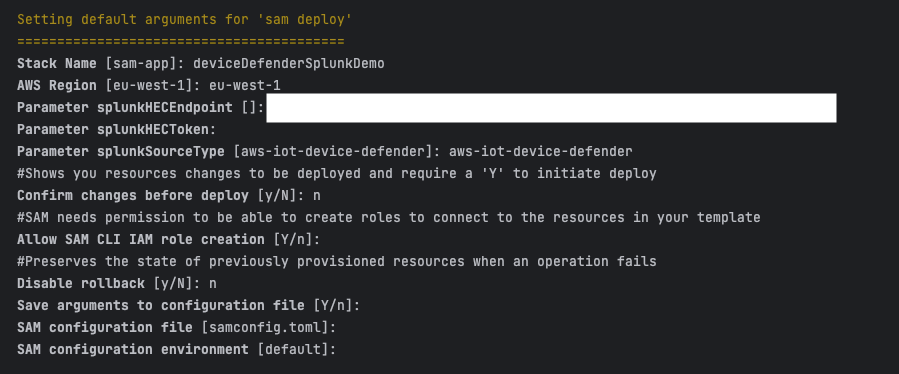
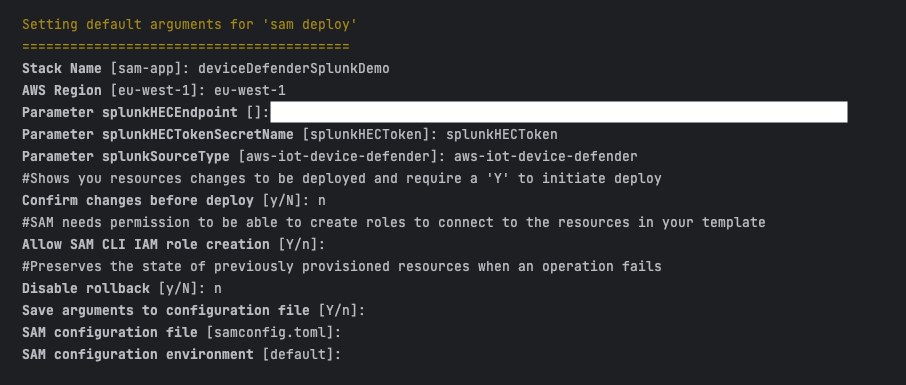
README update with Secret Manager steps.

Changed region(s): [[0.0, 0.0294, 0.9344, 0.9706]]

diff --git a/README.md b/README.md
@@ -85,6 +85,28 @@ Depending on your Splunk deployment, the assigned HEC URLs will vary. For most S
 
 You now have the HEC URL and Token Value which are required at the time of the AWS SAM template deployment.
 
+#### Storing the Splunk HEC token in AWS Secrets Manager ####
+
+AWS Secrets Manager is used to store the Splunk HEC token so it can be dynamically referenced at the time of the AWS SAM template deployment.
+
+1. Navigate to **AWS Secrets Manager** and select **Store a new secret** to create a new secret.
+
+![Creating a new secret](images/create_secret_step_1.png)
+
+Figure 7: Creating a new secret
+
+2. Select **Other type of secret** and enter `splunkHECToken` as the **Key**. For **Value**, enter the Splunk HEC token you retrieved earlier. Select **Next**.
+
+![Creating a new secret](images/create_secret_step_2.png)
+
+Figure 8: Choosing secret type
+
+3. Enter `splunkHECToken` as the **Secret name**. Select **Next**. Complete the remaining configuration of the new secret with default settings.
+
+![Creating a new secret](images/create_secret_step_3.png)
+
+Figure 9: Configure secret
+
 #### Deploying the AWS SAM template ####
 
 An aws-samples [GitHub repository](https://github.com/aws-samples/aws-iot-device-defender-and-splunk/) containing the SAM template and Lambda code has been made available so that you can test this solution yourself.
@@ -102,31 +124,31 @@ An aws-samples [GitHub repository](https://github.com/aws-samples/aws-iot-device
 `sam build`
 6. Deploy the application.
 `sam deploy --guided`
-7. When prompted, enter the unique details chosen for your environment (you can keep the remainder as defaults). In this example, we have chosen deviceDefenderSplunkDemo as the AWS CloudFormation stack name, and aws_iot_device_defender as the Splunk [source type](https://docs.splunk.com/Splexicon:Sourcetype).
+7. When prompted, enter the unique details chosen for your environment (you can keep the remainder as defaults). In this example, we have chosen `deviceDefenderSplunkDemo` as the AWS CloudFormation stack name, and `aws_iot_device_defender` as the Splunk [source type](https://docs.splunk.com/Splexicon:Sourcetype).
 
 ```
 Stack Name [sam-app]: <Your CloudFormation stack name>
-AWS Region [eu-west-1]: <Your AWS region>
+AWS Region [eu-west-1]: <Your AWS Region>
 Parameter splunkHECEndpoint []: <Your Splunk HEC endpoint>
-Parameter splunkHECToken: <Your Splunk HEC token>
+Parameter splunkHECTokenSecretName: <Name of your AWS Secrets Manager secret storing the Splunk HEC token>
 Parameter splunkSourceType [aws_iot_device_defender]: <Your Splunk event source type>
 ```
 
 ![Deploying the SAM template](images/deploying_sam_step_1.png)
 
-Figure 7: Deploying the SAM template
+Figure 10: Deploying the SAM template
 
 8. Confirm that the `Successfully created/updated stack` message is shown. 
 
 ![Confirming successful deployment of SAM template](images/deploying_sam_step_2.png)
 
-Figure 8: Confirming successful deployment of SAM template
+Figure 11: Confirming successful deployment of SAM template
 
 9. Note down the name of the AWS IoT thing created. This value is outputted by the CloudFormation stack. In this example, the thing name is `deviceDefenderSplunkDemo-IoT-Thing`.
  
 ![Noting down the AWS IoT thing name](images/deploying_sam_step_3.png)
 
-Figure 9: Noting down the AWS IoT thing name
+Figure 12: Noting down the AWS IoT thing name
 
 You are now ready to test the solution.
 
@@ -141,25 +163,25 @@ For purposes of the demonstration, the following steps will be performed on a Ra
 
 ![Generating device certificates](images/configure_iot_thing_and_certs_step_1.png)
 
-Figure 10: Generating device certificates
+Figure 13: Generating device certificates
 
 2. Make sure that the device certificate is activated, and that device certificate, public key file, private key file and Amazon root certificate have all been securely downloaded. These will be required on the Raspberry Pi device for authentication and authorization with AWS IoT Core.
 
 ![Downloading device certificates](images/configure_iot_thing_and_certs_step_2.png)
 
-Figure 11: Downloading device certificates
+Figure 14: Downloading device certificates
 
 3. Click on the certificate ID back in the **AWS IoT console**. Under the **Policies** tab, select the **Attach policies** button and attach to the device policy that has been generated for you by the CloudFormation template. This will ensure that the device has the permissions needed to connect, publish and subscribe to the AWS IoT Device Defender’s reserved MQTT topics.
 
 ![Attaching device certificate to policy](images/configure_iot_thing_and_certs_step_3.png)
 
-Figure 12: Attaching device certificate to policy
+Figure 15: Attaching device certificate to policy
 
 4. The CloudFormation template has already created an AWS IoT Core thing group which is mapped to the AWS IoT Device Defender security profile. Back on the thing page in the **AWS IoT console**, under the **Thing groups** tab, select the **Add to group** button and add the thing to this thing group.
 
 ![Adding thing to thing group](images/configure_iot_thing_and_certs_step_4.png)
 
-Figure 13: Adding thing to thing group
+Figure 16: Adding thing to thing group
 
 Cloud-side metrics will now start to be generated automatically for the device and ingested into Splunk. 
 
@@ -171,7 +193,7 @@ In order to generate device-side metrics, we will use the [AWS IoT Device Defend
 
 ![Noting down the AWS IoT Core endpoint](images/configure_iot_thing_and_certs_step_5.png)
 
-Figure 14: Noting down the AWS IoT Core endpoint
+Figure 17: Noting down the AWS IoT Core endpoint
 
 2. On the Raspberry Pi, create a directory for certificates called `/certs`, and upload the previously downloaded certificate files using a file manager or a secure copy command supported by your workstation. We have renamed the files `AmazonRootCA1.pem`, `certificate.pem.crt` and `private.pem.key` to simplify this example.
 
@@ -243,7 +265,7 @@ netstat -plnt
 
 ![Displaying open TCP ports on the device](images/netstat_confirm_ports.png)
 
-Figure 15: Displaying open TCP ports on the device
+Figure 18: Displaying open TCP ports on the device
 
 We are now ready to see if we can detect this anomaly in Splunk.
 
@@ -269,7 +291,7 @@ This query demonstrates that the total count of open TCP ports has changed on a 
 
 ![Displaying total number of open TCP ports](images/splunk_dashboard_step_1.png)
 
-Figure 16: Displaying total number of open TCP ports
+Figure 19: Displaying total number of open TCP ports
 
 As we now know the name of the device exhibiting suspicious behavior, we will run another SPL query to determine which ports may now be open.
 
@@ -284,7 +306,7 @@ index="<YOUR INDEX>" sourcetype="<YOUR SPLUNK SOURCE TYPE>"| where thing="<YOUR 
 
 ![Displaying open TCP ports on device](images/splunk_dashboard_step_2.png)
 
-Figure 17: Displaying open TCP ports on device
+Figure 20: Displaying open TCP ports on device
 
 The security analyst can further interrogate other data points, such as `aws:all-packets-out` or `aws:all-bytes-out` to see if there may be other indicators of data exfiltration. These can be assessed alongside data from other devices, such as network switches, routers and workstations, to provide a complete picture of what might have happened to this device, and the level of risk posed to the organization.
 
@@ -300,7 +322,7 @@ index="<YOUR INDEX>" sourcetype="<YOUR SPLUNK SOURCE TYPE>"| where isnotnull(che
 
 ![Displaying audit reports](images/splunk_dashboard_step_3.png)
 
-Figure 18: Displaying audit reports
+Figure 21: Displaying audit reports
 
 ### S3 bucket ###
 
